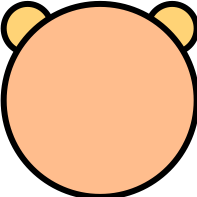
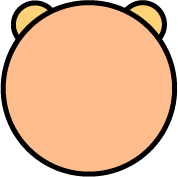
rotate around Player

Changed region(s): [[0.0, 0.0, 1.0, 1.0]]

diff --git a/src/Player.cpp b/src/Player.cpp
@@ -1,10 +1,10 @@
 #include "Player.h"
 
 Player::Player(): Obj() {
-    _velX = 0;
-    _velY = -10;
+    _dirX = 0;
+    _dirY = -1;
     _rotVel = 0;
-    _moveVel = 0;
+    _moveVel = -4;
     _deg = 0;
 }
 Player::~Player() {
@@ -28,14 +28,6 @@ void Player::handleKeyInput(SDL_Event& e) {
                 _rotVel = +5;
                 break;
             }
-            case SDLK_UP: {
-                _moveVel = -1;
-                break;
-            }
-            case SDLK_DOWN: {
-                _moveVel = 1;
-                break;
-            }
         }
     }
     // If a key was released
@@ -44,21 +36,19 @@ void Player::handleKeyInput(SDL_Event& e) {
         switch (e.key.keysym.sym) {
             case SDLK_LEFT: _rotVel = 0; break;
             case SDLK_RIGHT: _rotVel = 0; break;
-            case SDLK_UP: _moveVel = 0; break;
-            case SDLK_DOWN: _moveVel = 0; break;
         }
     }
 }
 
 void Player::move() {
-    _posX += _velX * _moveVel;
-    _posY += _velY * _moveVel;
+    _posX += _dirX * _moveVel;
+    _posY += _dirY * _moveVel;
 }
 void Player::rotate() {
     _deg += _rotVel;
-    double tmpX = -_velX, tmpY = -_velY;
-    _velX = -sin(_deg * PI / 180) * 10;
-    _velY = cos(_deg * PI / 180) * 10;
+    // double _v = sqrt(pow(_dirX, 2) + pow(_dirY, 2));
+    _dirX = -sin(_deg * PI / 180);
+    _dirY = cos(_deg * PI / 180);
 }
 void Player::collideWall() {
 
@@ -70,12 +60,12 @@ void Player::collideOhterPlayer() {
 
 }
 void Player::update() {
-    move();
     rotate();
+    move();
     SDL_Point p;
-    p.x = _posX;
-    p.y = _posY;
-    render(_posX, _posY, _deg, NULL);
+    p.x = getWidth() / 2;
+    p.y = getHeight() - getWidth() / 2;
+    render(_posX, _posY, _deg, &p);
 }
 void Player::renderPlayer() {
 

diff --git a/src/main.cpp b/src/main.cpp
@@ -4,8 +4,8 @@
 
 SDL_Window* gWindow = NULL;
 SDL_Renderer* gRenderer = NULL;
-int SCREEN_WIDTH = 800;
-int SCREEN_HEIGHT = 600;
+int SCREEN_WIDTH = 1280;
+int SCREEN_HEIGHT = 960;
 
 // Obj testObject;
 Player player1;
@@ -30,7 +30,7 @@ void init() {
 
 void loadMedia() {
     // Load testObject
-	player1.loadFromFile( "./media/player.png" );
+	player1.loadFromFile( "./media/shotGunPlayer.png" );
 }
 
 void close() {
@@ -46,6 +46,7 @@ void close() {
 	IMG_Quit();
 	SDL_Quit();
 }
+
 int main(int argc, char* args[]) {
     try {
         init();
@@ -54,14 +55,14 @@ int main(int argc, char* args[]) {
     catch (const char* message) {
         printf("Error: %s\n", message);
     }
-    bool quit = false;
     //Event handler
     SDL_Event e;
     // resize
-    player1.resize(player1.getWidth() / 3, player1.getHeight() / 3);
+    // player1.resize(player1.getWidth(), player1.getHeight());
     player1.setInitailPosition((SCREEN_WIDTH - player1.getWidth()) / 2, (SCREEN_HEIGHT - player1.getHeight()) / 2);
-
+    std::cout << "Player1_width & height: " << player1.getWidth() << " " << player1.getHeight() << std::endl;
     //While application is running
+    bool quit = false;
     while(!quit) {
         //Handle events on queue
         while( SDL_PollEvent( &e ) != 0 ) {
@@ -69,11 +70,12 @@ int main(int argc, char* args[]) {
             if(e.type == SDL_QUIT) { quit = true; break; }
             player1.handleKeyInput(e);
         }
+
         //Clear screen
         SDL_SetRenderDrawColor( gRenderer, 0xF0, 0xFF, 0xFF, 0xFF );
         SDL_RenderClear( gRenderer );
 
-        //Render rocket
+        //Render update
         player1.update();
         //Update screen
         SDL_RenderPresent( gRenderer );

diff --git a/include/Player.h b/include/Player.h
@@ -7,9 +7,11 @@ class Player : public Obj {
     private:
         std::string _name;
         double _moveVel; // move velocity
-        double _velX, _velY; // player velocity & direct
+        double _dirX, _dirY; // player velocity & direct
         double _rotVel; // rotate velocity
-        double _deg;
+        double _deg; // rotate angle
+        double _playerX; // player posX, not _posX, which referred to the image center
+        double _playerY; // player posY
         int _state; // condition
     public:
         Player();

diff --git a/include/Obj.h b/include/Obj.h
@@ -6,7 +6,7 @@ class Obj {
     protected:
         std::string _id;
         std::string _type;
-        int _posX, _posY;
+        double _posX, _posY;
         SDL_Texture *_objTexture;
         int _objWidth, _objHeight;
     public:
